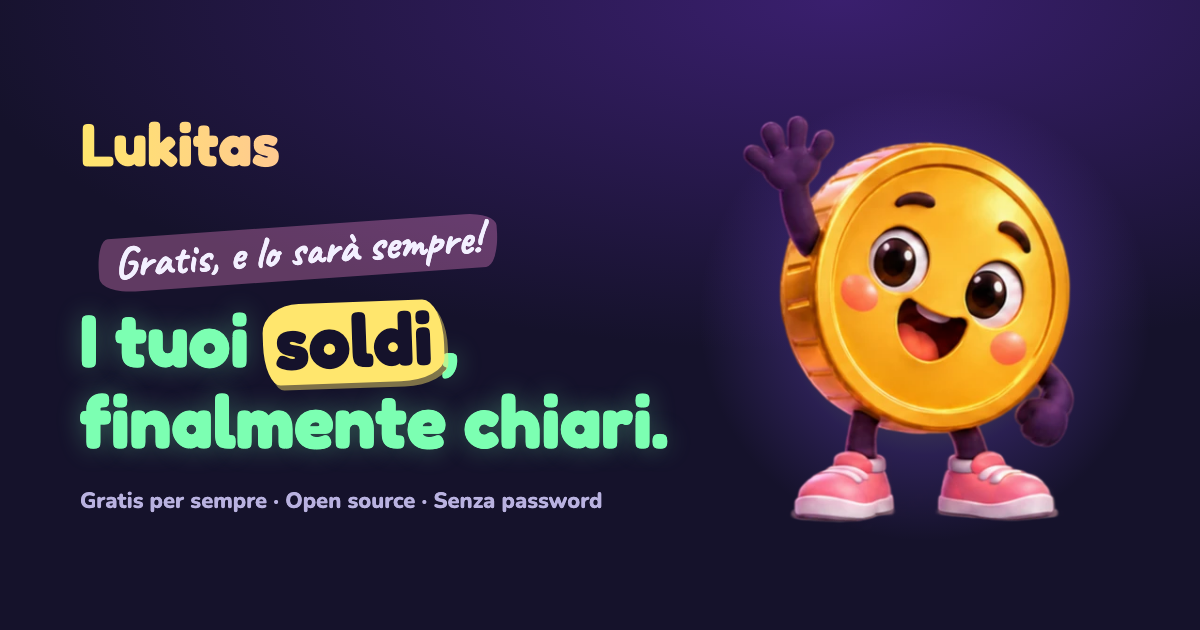
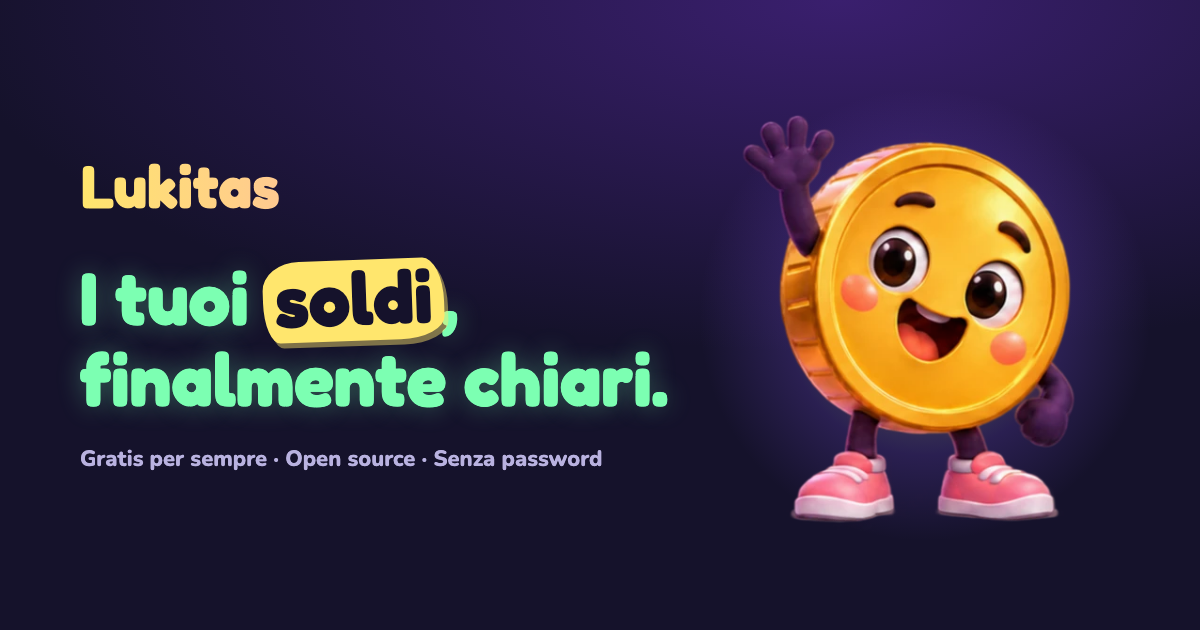
feat(landing): the share images lose the handwritten note too
The OG images (og-es/en/it/pt.png) are rendered again without "¡Gratis, y siempre lo será!",
and their alt texts no longer describe it. With the note gone from the page and the images,
nothing uses Caveat any more: its @font-face, its package and the `annotation` messages go.

Changed region(s): [[0.0617, 0.3317, 0.555, 0.754], [0.0617, 0.181, 0.2467, 0.3317], [0.0617, 0.7841, 0.5242, 0.8143]]

diff --git a/apps/web/scripts/og/og.html b/apps/web/scripts/og/og.html
@@ -22,11 +22,6 @@
         src: url("../../node_modules/@fontsource/fredoka/files/fredoka-latin-700-normal.woff2") format("woff2");
       }
       @font-face {
-        font-family: "Caveat";
-        font-weight: 700;
-        src: url("../../node_modules/@fontsource/caveat/files/caveat-latin-700-normal.woff2") format("woff2");
-      }
-      @font-face {
         font-family: "Nunito";
         font-weight: 800;
         src: url("../../node_modules/@fontsource/nunito/files/nunito-latin-800-normal.woff2") format("woff2");
@@ -60,26 +55,13 @@
         color: transparent;
       }
       .headline {
-        margin: 22px 0 0;
+        margin: 44px 0 0;
         font-family: var(--font-display);
         font-weight: 700;
         font-size: 74px;
         line-height: 1.04;
         color: var(--good);
         text-shadow: 0 0 26px color-mix(in srgb, var(--good) 30%, transparent);
-      }
-      /* The handwritten promise, as on the landing: hand face, tilted, on a candy stroke. */
-      .annotation {
-        display: inline-block;
-        margin: 52px 0 0 18px;
-        padding: 1px 16px 5px;
-        border-radius: 0.25em 0.7em 0.3em 0.8em / 0.7em 0.3em 0.8em 0.35em;
-        background: color-mix(in srgb, var(--candy) 32%, transparent);
-        font-family: var(--font-hand);
-        font-weight: 700;
-        font-size: 44px;
-        line-height: 1.1;
-        transform: rotate(-4deg);
       }
       /* The highlighted word: dark ink on the gold marker blob. */
       .rich-mark {
@@ -129,7 +111,6 @@
     <div class="card">
       <div>
         <div class="logo">Lukitas</div>
-        <div class="annotation" data-copy="hero.annotation"></div>
         <div class="headline" data-copy="hero.headline"></div>
         <div class="perks" data-copy="hero.perks"></div>
       </div>

diff --git a/apps/web/scripts/og/render.ts b/apps/web/scripts/og/render.ts
@@ -60,11 +60,7 @@ try {
     );
     await page.evaluate(async () => {
       await document.fonts.ready;
-      await Promise.all(
-        ["700 74px Fredoka", "800 22px Nunito", "700 44px Caveat"].map((f) =>
-          document.fonts.load(f),
-        ),
-      );
+      await Promise.all(["700 74px Fredoka", "800 22px Nunito"].map((f) => document.fonts.load(f)));
     });
     const out = fileURLToPath(new URL(`../../public/og-${locale}.png`, import.meta.url));
     await page.screenshot({ path: out, clip: { x: 0, y: 0, width: 1200, height: 630 } });

diff --git a/apps/web/app/styles/fonts.ts b/apps/web/app/styles/fonts.ts
@@ -1,8 +1,4 @@
 // Self-hosted fonts (no third-party requests), only the weights the design system uses.
-// Caveat (`hand`) is for the share image's handwritten note (scripts/og) only: declaring it here costs a few
-// @font-face rules, and the browser only downloads it on a page that uses it.
-import "@fontsource/caveat/600.css";
-import "@fontsource/caveat/700.css";
 import "@fontsource/fredoka/500.css";
 import "@fontsource/fredoka/600.css";
 import "@fontsource/fredoka/700.css";
